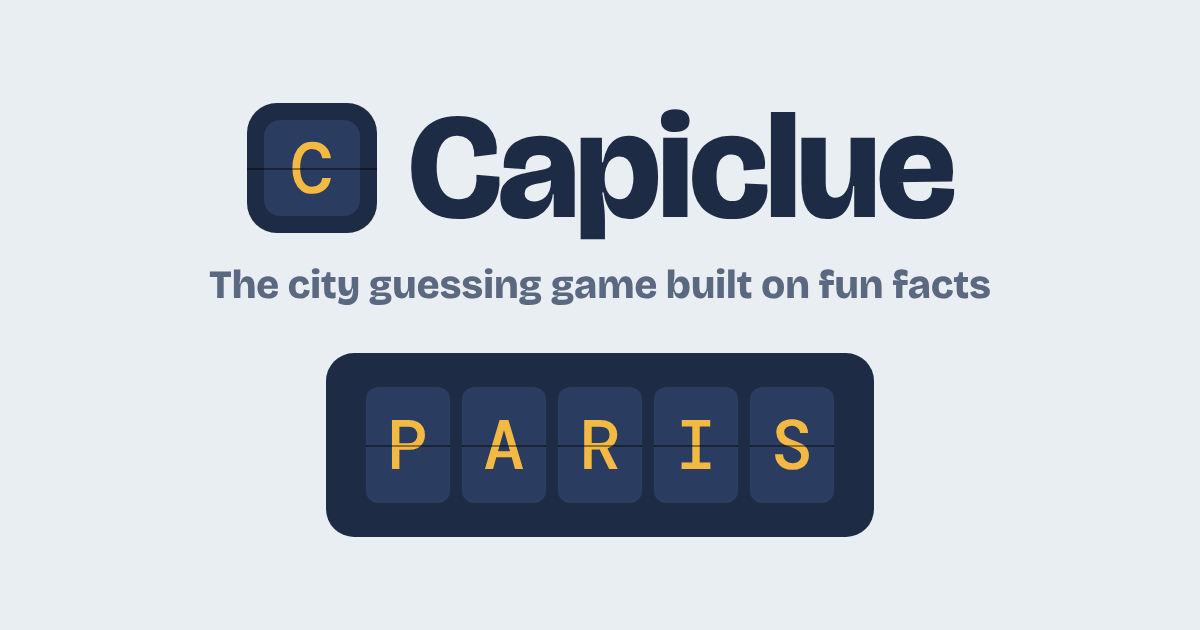
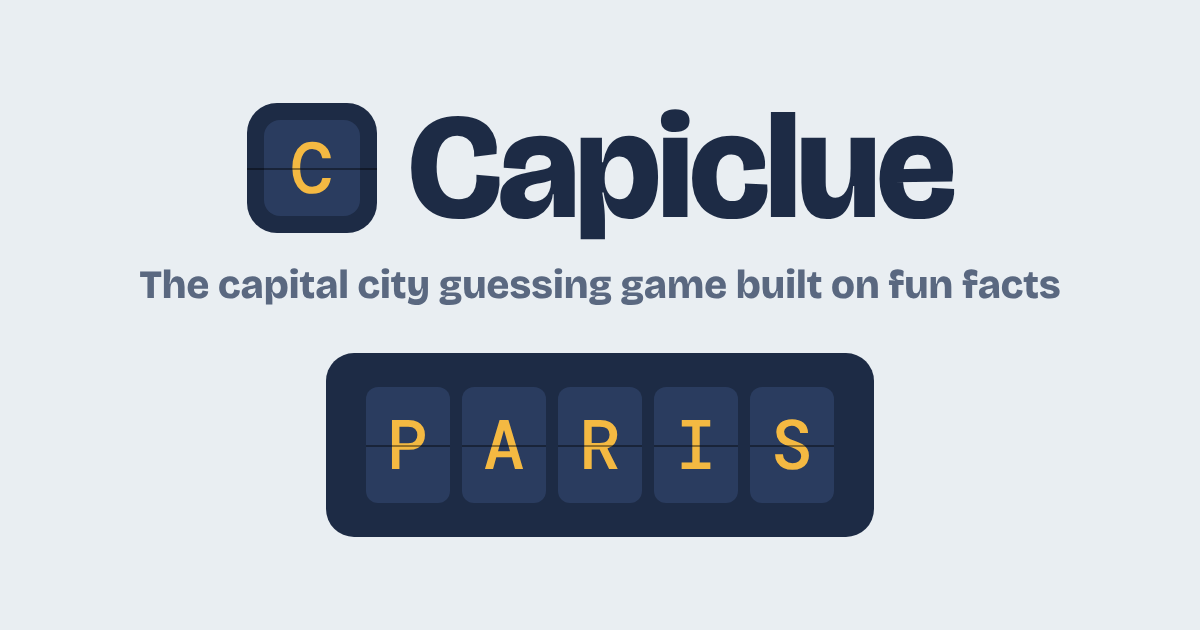
Say 'capital city guessing game' in link previews, search text and footer; new preview image name to refresh caches
Claude-Session: https://claude.ai/code/session_01Js8PMLcMvXiYffoY2Kd8dr

Changed region(s): [[0.1233, 0.4222, 0.8942, 0.4825]]

diff --git a/index.html b/index.html
@@ -3,8 +3,8 @@
 <head>
 <meta charset="UTF-8">
 <meta name="viewport" content="width=device-width, initial-scale=1, viewport-fit=cover">
-<title>Capiclue – Guess the City from Fun Facts | Daily Geography Game</title>
-<meta name="description" content="Capiclue is a free daily city guessing game built on fun facts. Read surprising trivia about a mystery capital and guess the city – the fewer facts you need, the more points you score. Five new cities every day.">
+<title>Capiclue – Guess the Capital City from Fun Facts | Daily Geography Game</title>
+<meta name="description" content="Capiclue is a free daily capital city guessing game built on fun facts. Read surprising trivia about a mystery capital and guess the city – the fewer facts you need, the more points you score. Five new cities every day.">
 <link rel="canonical" href="https://capiclue.com/">
 <meta name="theme-color" content="#1D2B45">
 <script>try{var t=localStorage.getItem("capiclue-theme");if(t)document.documentElement.setAttribute("data-theme",t)}catch(e){}</script>
@@ -13,20 +13,20 @@
 <meta property="og:type" content="website">
 <meta property="og:site_name" content="Capiclue">
 <meta property="og:url" content="https://capiclue.com/">
-<meta property="og:title" content="Capiclue – Guess the City from Fun Facts">
-<meta property="og:description" content="A daily city guessing game built on surprising fun facts. Five mystery capitals, new every day.">
-<meta property="og:image" content="https://capiclue.com/og-image.png">
+<meta property="og:title" content="Capiclue – Guess the Capital City from Fun Facts">
+<meta property="og:description" content="A daily capital city guessing game built on surprising fun facts. Five mystery capitals, new every day.">
+<meta property="og:image" content="https://capiclue.com/og-image-v2.png">
 <meta property="og:image:width" content="1200">
 <meta property="og:image:height" content="630">
 <meta property="og:image:alt" content="Capiclue logo above the word PARIS spelled out in flip-board tiles">
 <meta name="twitter:card" content="summary_large_image">
-<meta name="twitter:title" content="Capiclue – Guess the City from Fun Facts">
-<meta name="twitter:description" content="A daily city guessing game built on surprising fun facts. Five mystery capitals, new every day.">
-<meta name="twitter:image" content="https://capiclue.com/og-image.png">
+<meta name="twitter:title" content="Capiclue – Guess the Capital City from Fun Facts">
+<meta name="twitter:description" content="A daily capital city guessing game built on surprising fun facts. Five mystery capitals, new every day.">
+<meta name="twitter:image" content="https://capiclue.com/og-image-v2.png">
 <script type="application/ld+json">
 {"@context":"https://schema.org","@type":"WebApplication","name":"Capiclue","url":"https://capiclue.com/",
  "applicationCategory":"GameApplication","genre":"Geography trivia","operatingSystem":"Any (web browser)",
- "description":"A free daily city guessing game: read fun facts about a mystery capital and guess the city. The fewer facts you need, the more points you score.",
+ "description":"A free daily capital city guessing game: read fun facts about a mystery capital and guess the city. The fewer facts you need, the more points you score.",
  "offers":{"@type":"Offer","price":"0","priceCurrency":"USD"}}
 </script>
 <link rel="preconnect" href="https://fonts.googleapis.com">
@@ -299,13 +299,13 @@ kbd{font-family:"DM Mono",ui-monospace,monospace;font-size:.8em;padding:1px 6px;
 
   <details class="about" id="about">
     <summary><h2>About Capiclue</h2><span class="chev" aria-hidden="true"></span></summary>
-    <p>Capiclue is a free daily city guessing game where every clue is a fun fact. Instead of maps or flags, you get surprising trivia: a city with a Museum of Broken Relationships, a capital whose giant Ferris wheel has turned since 1897, a place nicknamed the “Jerusalem of Europe”. Can you name the city?</p>
+    <p>Capiclue is a free daily capital city guessing game where every clue is a fun fact. Instead of maps or flags, you get surprising trivia: a city with a Museum of Broken Relationships, a capital whose giant Ferris wheel has turned since 1897, a place nicknamed the “Jerusalem of Europe”. Can you name the city?</p>
     <p>Each day brings five mystery capitals from Europe, Asia, Africa, the Americas and Oceania, with up to four facts each, starting tricky and getting easier. Even when you miss one, you walk away knowing something new about the world.</p>
     <p>No sign-up, no download: it works on any phone, tablet or computer.</p>
   </details>
   <footer class="foot">
     <span class="logo small"><span class="mark" aria-hidden="true"><span>C</span></span><span class="word">Capiclue</span></span>
-    <p>The city guessing game built on fun facts.</p>
+    <p>The capital city guessing game built on fun facts.</p>
     <p class="foot-meta">Also from us: <a href="https://getmeoutofhere.live/?utm_source=capiclue&amp;utm_medium=referral&amp;utm_campaign=footer" target="_blank" rel="noopener">✈ Get Me Out of Here</a>: the cheapest flights to anywhere from your airport.</p>
     <p class="foot-meta">© <span id="year">2026</span> Capiclue</p>
   </footer>
